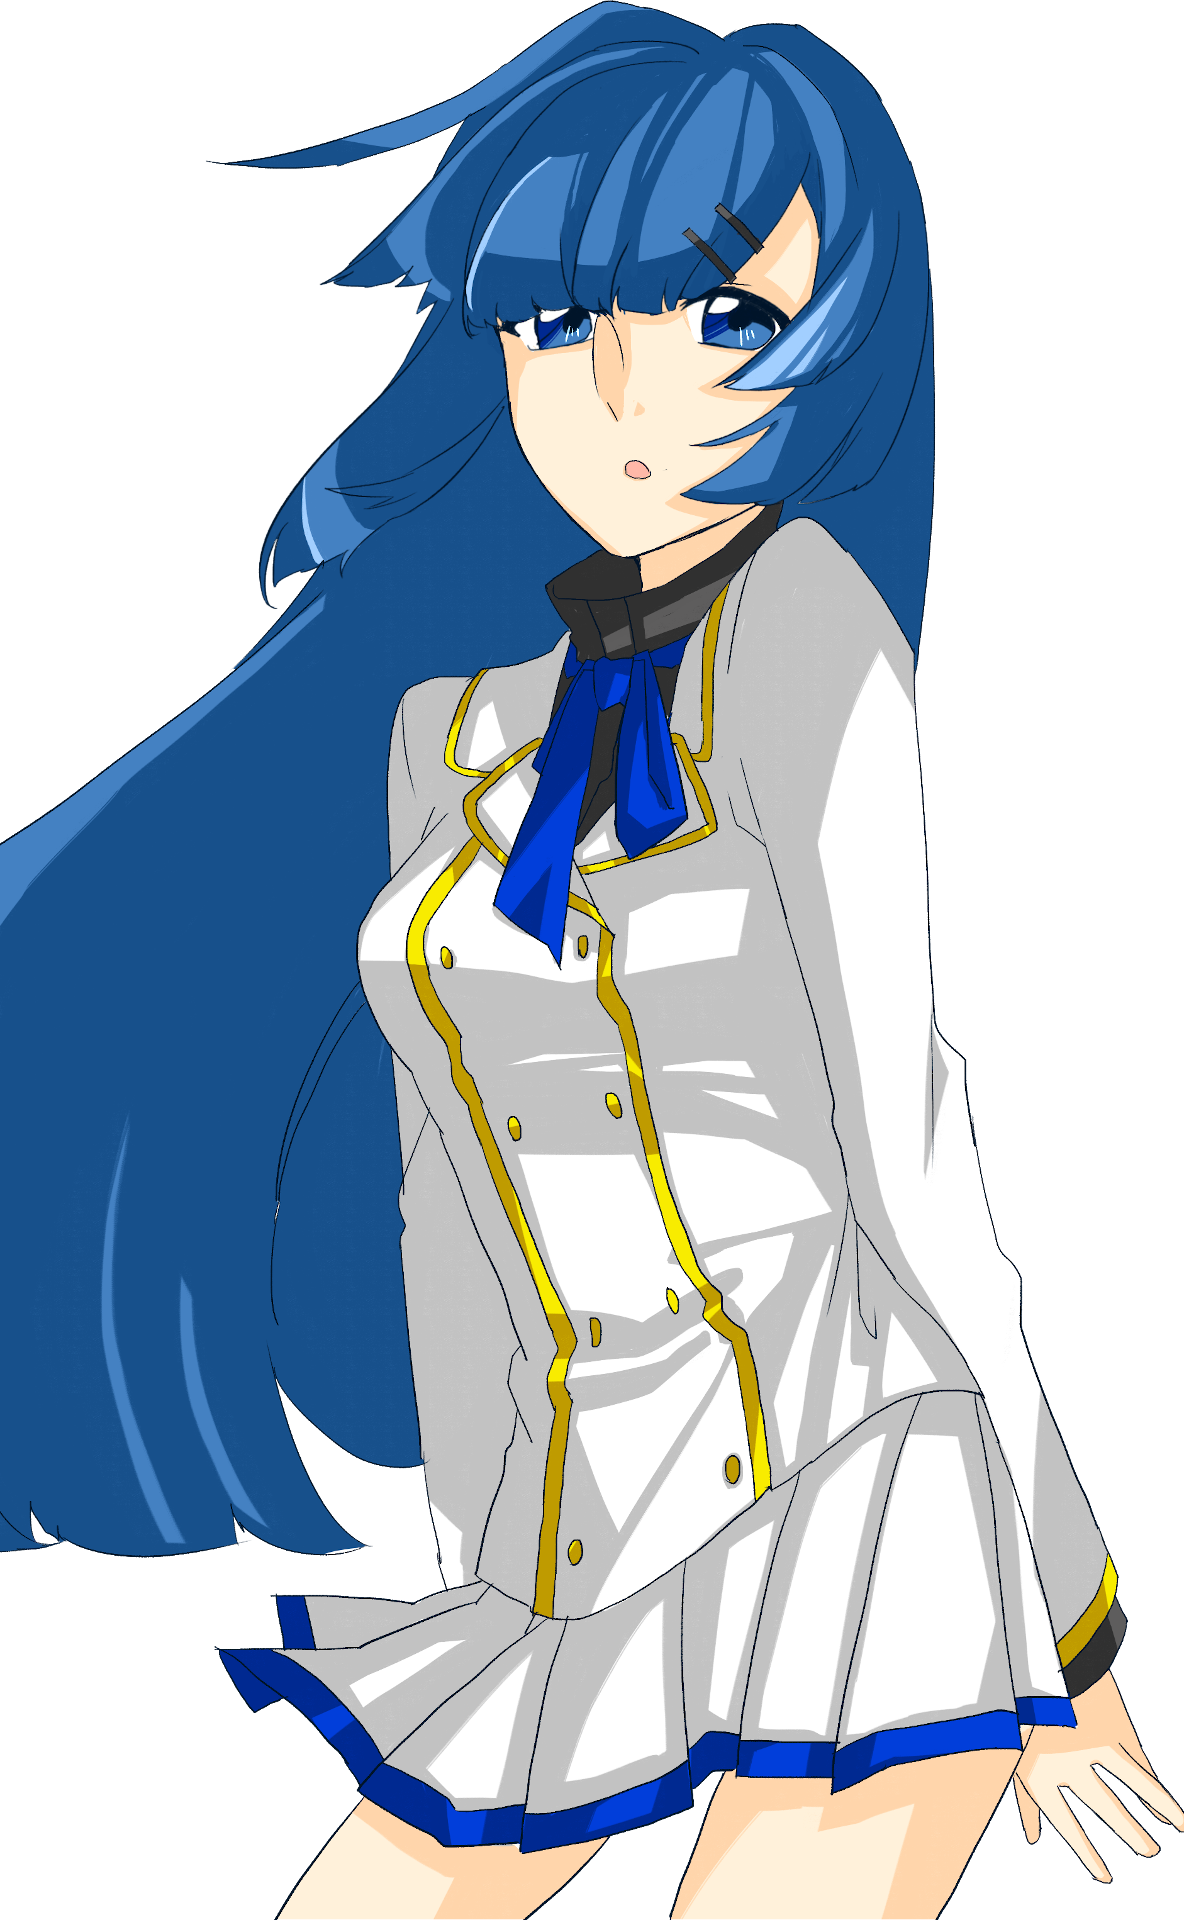
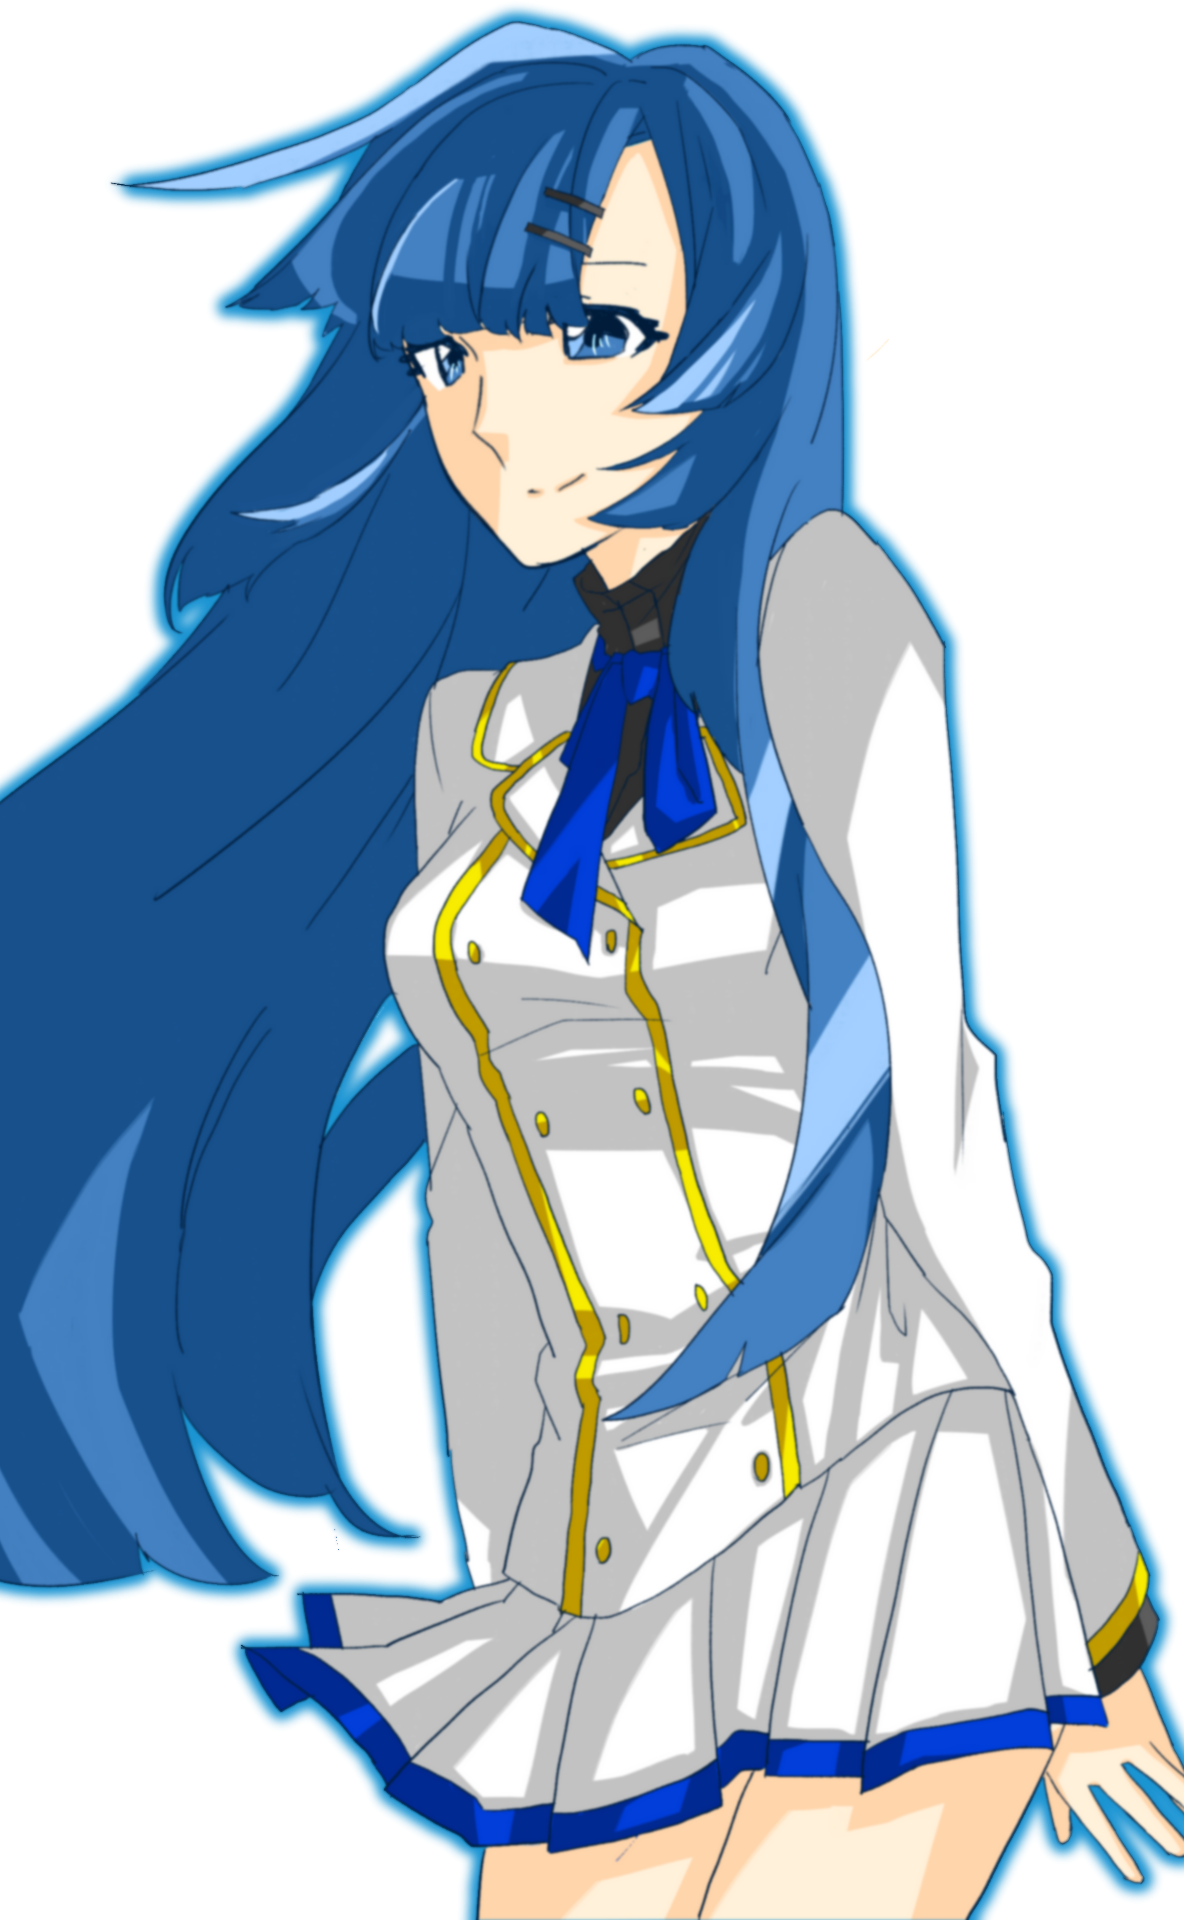
🔼 九鬼さん追加＆イラスト差し替え＆デザイン調整

diff --git a/pages/index.vue b/pages/index.vue
@@ -1,11 +1,11 @@
 <template>
   <div class="row">
     <div class="col-6 chara-area">
-      <img :src="`/characters/${selectingChara.id}.png`"/>
+      <img :src="`/characters/${selectingChara.id}_fill.png`" v-if="selectingChara!=1" />
     </div>
     <div class="col-6 menu-area">
       <IconLink title="参加者の傾向" link="/trend" icon="/images/graph.png" />
-      <IconLink title="おすすめ学科提案結果" link="/" icon="/images/proposal.png" />
+      <IconLink title="おすすめ学科提案結果" link="/play-result" icon="/images/proposal.png" />
     </div>
   </div>
 </template>
@@ -18,13 +18,15 @@ export default {
   },
   layout: 'manage',
   mounted() {
-    const rand = Math.floor(Math.random()*10)
-    this.selectingChara = this.$store.getters[`characters/c${rand+1}`]
-    this.$store.dispatch('characters/setCurrentCharacter', this.selectingChara)
+    this.$nextTick(() => {
+      const rand = Math.floor(Math.random()*11) + 1
+      this.selectingChara = this.$store.getters[`characters/c${1}`]
+      this.$store.dispatch('characters/setCurrentCharacter', this.selectingChara)
+    })
   },
   data() {
     return {
-      selectingChara: '',
+      selectingChara:  1,
       isHover: false
     }
   },
@@ -39,12 +41,15 @@ export default {
     text-align: center;
     img{
       height: 100%;
+      position: absolute;
+      right: 0;
     }
   }
   .menu-area{
+    height: 50vh;
     display: flex;
     flex-direction: column;
-    justify-content: center;
+    justify-content: space-around;
   }
 }
 </style>

diff --git a/pages/senario/select.vue b/pages/senario/select.vue
@@ -55,6 +55,7 @@ export default {
                 { id: 6, name: 'ムッちゃん', color: '#9c7055', text: "常に指人形を両手に装着しておりコミュニケーションはうさぎと猫がすべてこなす。人形がないと慌てる極度の人見知りだが寂しがり屋でひとりぼっちは別として苦手。"},
                 { id: 7, name: 'なっちゃん', color: '#c0b400', text: "どこにでもいる普通の女の子だが時代劇が好きであり、「白馬に乗った王子様＝遠山の金さん」だと思っている。\n実家が貧乏でめっちゃバイトしている。"},
                 { id: 8, name: 'ハチベエ', color: '#d67a03', text: "――――その日、爆弾が落ちた。"},
+                { id: 9, name: '九鬼さん', color: '#d53a3b', text: "" },
                 { id: 10, name: '会長', color: '#00a1ad', text: "何でも完璧にこなすカリスマ。クールで口調はやや威圧的だが面倒見はワリといい。\nただ料理だけは苦手で包丁を握ると謎のオブジェが出来上がる。" },
                 { id: 11, name: 'ワン子', color: '#b7b7b7', text: "自由奔放な帰国子女。明るくポジティブで無駄にテンションが高い。\n日本が大好きで着物作りを趣味にしている。"}
             ],

diff --git a/store/characters.js b/store/characters.js
@@ -39,6 +39,11 @@ export const state = () => ({
         name: 'ハチベエ',
         color: '#d67a03'
     },
+    c9: {
+        id: 9,
+        name: '九鬼さん',
+        color: '#'
+    },
     c10: {
         id: 10,
         name: '会長',
@@ -73,6 +78,7 @@ export const getters = {
     c6: state => state.c6,
     c7: state => state.c7,
     c8: state => state.c8,
+    c9: state => state.c9,
     c10: state => state.c10,
     c11: state => state.c11,
 }
